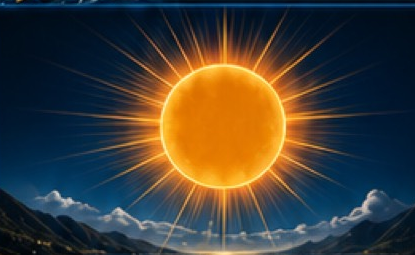
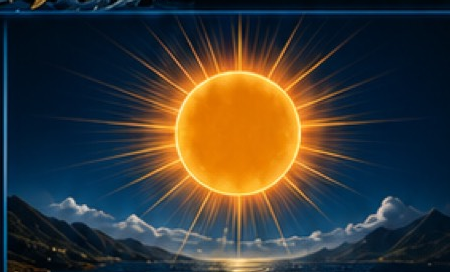
Add files via upload
Update

diff --git a/style.css b/style.css
@@ -4043,3 +4043,245 @@ body.reference-layout-v3 .score-activity-row {
 body.reference-layout-v3 .score-activity-row > .panel {
   min-height: 160px !important;
 }
+
+/* =========================================================
+   FULL ANALYSIS FIX — all Master gaps
+========================================================= */
+
+/* Header: fish faces + single star */
+body.reference-layout-v3 .top-header.final-master-header {
+  display: grid !important;
+  grid-template-columns: 32px minmax(0, 1fr) 68px !important;
+  gap: 4px !important;
+  align-items: center !important;
+  overflow: hidden !important;
+}
+body.reference-layout-v3 .top-header .header-brand-lockup.brand-area {
+  grid-template-columns: 78px minmax(0, 1fr) 78px !important;
+  gap: 2px !important;
+}
+body.reference-layout-v3 .top-header .header-fish-asset.brand-fish {
+  width: 78px !important;
+  height: 48px !important;
+  object-fit: contain !important;
+  object-position: center !important;
+}
+body.reference-layout-v3 .top-header .header-brand-title {
+  font-size: 10px !important;
+  white-space: nowrap !important;
+}
+body.reference-layout-v3 .top-header .header-actions {
+  display: flex !important;
+  gap: 4px !important;
+}
+body.reference-layout-v3 .top-header .header-actions .favorite-button ~ .favorite-button {
+  display: none !important;
+}
+
+/* Yellow sunrise/sunset icons in hero metrics */
+body.reference-layout-v3 .weather-metrics .weather-metric:nth-child(5),
+body.reference-layout-v3 .weather-metrics .weather-metric:nth-child(6) {
+  color: #ffc24a !important;
+}
+body.reference-layout-v3 .weather-metrics .weather-metric:nth-child(5) svg,
+body.reference-layout-v3 .weather-metrics .weather-metric:nth-child(6) svg {
+  color: #ffc24a !important;
+}
+body.reference-layout-v3 .weather-metrics .weather-metric:nth-child(5) svg *,
+body.reference-layout-v3 .weather-metrics .weather-metric:nth-child(6) svg * {
+  stroke: #ffc24a !important;
+}
+
+/* UV metric emphasize */
+body.reference-layout-v3 .uv-metric strong,
+body.reference-layout-v3 #weather-uv {
+  color: #ff4d4d !important;
+  font-weight: 800 !important;
+}
+
+/* Sun scene */
+body.reference-layout-v3 img.premium-sun-photo {
+  height: 84px !important;
+  object-fit: cover !important;
+  object-position: center 50% !important;
+  border-radius: 8px !important;
+}
+
+/* Hourly weather: show temps */
+body.reference-layout-v3 .weather-hour-cell span[data-field*="temperature"],
+body.reference-layout-v3 .weather-hour-cell > span:last-child {
+  display: block !important;
+  font-size: 8px !important;
+  color: #b8d4e8 !important;
+  margin-top: 2px !important;
+}
+body.reference-layout-v3 .weather-hour-cell strong {
+  font-size: 7.5px !important;
+  line-height: 1.15 !important;
+  white-space: normal !important;
+  max-height: 2.4em !important;
+  overflow: hidden !important;
+}
+
+/* Wind Bf label */
+body.reference-layout-v3 .wind-hour-cell strong {
+  display: flex !important;
+  flex-direction: column !important;
+  align-items: center !important;
+  line-height: 1.05 !important;
+  font-size: 12px !important;
+}
+body.reference-layout-v3 .wind-hour-cell strong .bf-label {
+  display: block !important;
+  font-size: 7px !important;
+  font-weight: 600 !important;
+  color: #8eb4c8 !important;
+  letter-spacing: 0.04em !important;
+}
+
+/* Moon times: two clean columns */
+body.reference-layout-v3 .moon-panel {
+  min-height: 128px !important;
+  overflow: visible !important;
+  display: flex !important;
+  flex-direction: column !important;
+}
+body.reference-layout-v3 .moon-panel .moon-main {
+  flex: 1 1 auto !important;
+  min-height: 72px !important;
+  grid-template-columns: 70px 1fr !important;
+  gap: 8px !important;
+  padding: 6px 8px 4px !important;
+  align-items: center !important;
+}
+body.reference-layout-v3 .moon-panel .master-moon-photo {
+  width: 70px !important;
+  height: 70px !important;
+  border-radius: 50% !important;
+  object-fit: cover !important;
+}
+body.reference-layout-v3 .moon-panel .moon-copy strong {
+  font-size: 24px !important;
+  line-height: 1 !important;
+}
+body.reference-layout-v3 .moon-panel .moon-copy span {
+  font-size: 9px !important;
+  line-height: 1.25 !important;
+  white-space: normal !important;
+  overflow: visible !important;
+}
+body.reference-layout-v3 .moon-panel .moon-times {
+  display: grid !important;
+  grid-template-columns: 1fr 1fr !important;
+  gap: 6px !important;
+  flex: 0 0 34px !important;
+  height: 34px !important;
+  min-height: 34px !important;
+  padding: 4px 8px 6px !important;
+  border-top: 1px solid rgba(90, 150, 190, 0.28) !important;
+  overflow: visible !important;
+}
+body.reference-layout-v3 .moon-panel .moon-times > div {
+  display: flex !important;
+  flex-direction: column !important;
+  align-items: flex-start !important;
+  gap: 1px !important;
+  min-width: 0 !important;
+}
+body.reference-layout-v3 .moon-panel .moon-times > div > svg {
+  display: none !important; /* use text row cleaner */
+}
+body.reference-layout-v3 .moon-panel .moon-times > div {
+  display: grid !important;
+  grid-template-columns: 12px 1fr !important;
+  grid-template-rows: auto auto !important;
+  column-gap: 4px !important;
+  row-gap: 0 !important;
+  align-items: center !important;
+}
+body.reference-layout-v3 .moon-panel .moon-times > div > svg {
+  display: block !important;
+  grid-row: 1 / span 2 !important;
+  width: 12px !important;
+  height: 12px !important;
+}
+body.reference-layout-v3 .moon-panel .moon-times span {
+  font-size: 6.5px !important;
+  color: #9ec5d8 !important;
+  line-height: 1 !important;
+  white-space: nowrap !important;
+}
+body.reference-layout-v3 .moon-panel .moon-times strong {
+  font-size: 10px !important;
+  color: #fff !important;
+  line-height: 1.1 !important;
+  white-space: nowrap !important;
+}
+
+/* Fish activity clean */
+body.reference-layout-v3 .activity-fish-photo {
+  height: 70px !important;
+  object-fit: contain !important;
+}
+body.reference-layout-v3 .activity-spectrum {
+  display: flex !important;
+  height: 7px !important;
+  margin-top: 6px !important;
+  border-radius: 4px !important;
+  overflow: visible !important;
+  position: relative !important;
+}
+body.reference-layout-v3 .activity-spectrum span {
+  flex: 1 !important;
+  height: 100% !important;
+}
+body.reference-layout-v3 .activity-spectrum-marker {
+  position: absolute !important;
+  top: -3px !important;
+  width: 3px !important;
+  height: 13px !important;
+  background: #fff !important;
+  border-radius: 2px !important;
+  left: var(--activity-percent, 85%) !important;
+  transform: translateX(-50%) !important;
+}
+
+/* Score master card with stars */
+body.reference-layout-v3 .score-master-photo {
+  width: 100% !important;
+  max-height: 160px !important;
+  object-fit: contain !important;
+  display: block !important;
+}
+body.reference-layout-v3 .score-panel > h2,
+body.reference-layout-v3 .score-panel .score-gauge,
+body.reference-layout-v3 .score-panel .score-caption,
+body.reference-layout-v3 .score-panel .score-stars,
+body.reference-layout-v3 .score-panel .score-rod-photo {
+  display: none !important;
+}
+body.reference-layout-v3 .score-activity-row {
+  min-height: 165px !important;
+  height: auto !important;
+}
+body.reference-layout-v3 .score-activity-row > .panel {
+  min-height: 165px !important;
+  height: auto !important;
+}
+
+/* Techniques keep full cards */
+body.reference-layout-v3 .technique-card .technique-icon {
+  height: 135px !important;
+  min-height: 135px !important;
+}
+body.reference-layout-v3 .technique-card .technique-photo {
+  height: 135px !important;
+  object-fit: cover !important;
+  object-position: center top !important;
+}
+body.reference-layout-v3 .technique-card > strong,
+body.reference-layout-v3 .technique-card .technique-stars,
+body.reference-layout-v3 .technique-card .technique-rating-label,
+body.reference-layout-v3 .technique-card .technique-dot {
+  display: none !important;
+}

diff --git a/app.js b/app.js
@@ -570,6 +570,11 @@
     const sun = calculateSunTimes(now);
     const moon = calculateMoon(now);
     const tide = calculateTideFallback(now);
+    if (!state.provider) {
+      // Locked Master tide times from MASTER_FINAL_REFERENCE
+      tide.nextLow = { minutes: 11 * 60 + 40, height: -0.12 };
+      tide.nextHigh = { minutes: 17 * 60 + 55, height: 0.85 };
+    }
     const startHour = 8; // Master hourly strip starts at 08:00
     const dailyWave = Math.sin((local.getDate() + local.getMonth() * 3) * 0.73);
     const baseTemperature = 22;
@@ -588,13 +593,14 @@
       { hour: 14, condition: "partly", temperature: 26, rainProbability: 0 }
     ];
 
+    const HOURLY_SHORT = { clear: "Ηλιοφάνεια", partly: "Αραιή συννεφιά", cloudy: "Συννεφιά", rain: "Βροχή", storm: "Καταιγίδα", night: "Αίθριος" };
     const hourlyWeather = masterHourly.map((slot, index) => {
       const date = new Date(local.getFullYear(), local.getMonth(), local.getDate(), slot.hour, 0, 0);
       return {
         time: `${pad2(slot.hour)}:00`,
         iso: date.toISOString(),
         condition: slot.condition,
-        label: CONDITION_META[slot.condition].description,
+        label: HOURLY_SHORT[slot.condition] || CONDITION_META[slot.condition].description,
         temperature: slot.temperature,
         rainProbability: slot.rainProbability
       };
@@ -706,7 +712,12 @@
       })
     );
 
-    const alerts = [
+    const alerts = !state.provider ? [
+      { id: "spinning-window", tone: "green", status: "active", label: "SPINNING: Ιδανικές συνθήκες", time: "08:00–10:00" },
+      { id: "wind-increase", tone: "yellow", status: "upcoming", label: "ΑΝΕΜΟΣ: Ενισχύεται μετά τις", time: "14:00" },
+      { id: "current-increase", tone: "orange", status: "upcoming", label: "ΡΕΥΜΑΤΑ: Αυξημένα μετά τις", time: "16:00" },
+      { id: "uv-high", tone: "blue", status: "active", label: "UV: Υψηλός δείκτης", time: "11:00–16:00" }
+    ] : [
       {
         id: "spinning-window",
         tone: "green",
@@ -754,7 +765,7 @@
         humidity: !state.provider ? 56 : clamp(52 + Math.round(Math.abs(dailyWave) * 8), 42, 78),
         rainProbability: !state.provider ? 0 : rainProbability,
         uvIndex: !state.provider ? 6 : uvIndex,
-        uvLabel: !state.provider ? "ΥΨΗΛΟΣ" : uvLabel(uvIndex),
+        uvLabel: !state.provider ? "6 ΥΨΗΛΟΣ" : uvLabel(uvIndex),
         condition: !state.provider ? "clear" : currentCondition,
         label: !state.provider ? "ΗΛΙΟΦΑΝΕΙΑ" : CONDITION_META[currentCondition].label,
         description: !state.provider ? "Αίθριος ουρανός" : CONDITION_META[currentCondition].description
@@ -910,7 +921,7 @@
       setText("time", hour.time, cell);
       const time = $("time", cell);
       if (time) time.dateTime = hour.iso;
-      setText("strong", CONDITION_META[hour.condition]?.description || hour.label, cell);
+      setText("strong", hour.label || CONDITION_META[hour.condition]?.description, cell);
       setText("span", `${Math.round(hour.temperature)}°C`, cell);
       const use = $("svg use", cell);
       if (use) use.setAttribute("href", CONDITION_META[hour.condition]?.icon || "#weather-partly");
@@ -932,7 +943,8 @@
       setText(".wind-dir", item.directionLabel, cell);
 
       if (type === "wind") {
-        setText("strong", item.beaufort, cell);
+        const strong = $("strong", cell);
+        if (strong) strong.innerHTML = `${item.beaufort}<span class="bf-label">Bf</span>`;
         setText("small", `${Math.round(item.speedKmh)} km/h`, cell);
       } else {
         setText("strong", `${item.speedKnots.toFixed(1)} kn`, cell);
@@ -1032,7 +1044,7 @@
 
   function renderSea(data) {
     setText("#wave-height", `${data.sea.waveHeight.toFixed(1)} m`);
-    setText("#wave-period", `${data.sea.wavePeriod.toFixed(1)} s`);
+    setText("#wave-period", Number.isInteger(data.sea.wavePeriod) ? `${data.sea.wavePeriod} s` : `${data.sea.wavePeriod.toFixed(1)} s`);
     setText("#wave-direction-label", data.sea.waveDirectionLabel);
     setText("#water-temperature", `${Math.round(data.sea.waterTemperature)}°C`);
 
@@ -1271,6 +1283,10 @@
   ======================================================= */
 
   function applyFavorite(isFavorite, persist = true) {
+    // Ensure only one favorite button exists (Master has single star)
+    document.querySelectorAll(".header-actions .favorite-button").forEach((btn, i) => {
+      if (i > 0) btn.remove();
+    });
     const button = $(".favorite-button");
     if (!button) return;
     button.classList.toggle("is-favorite", Boolean(isFavorite));
